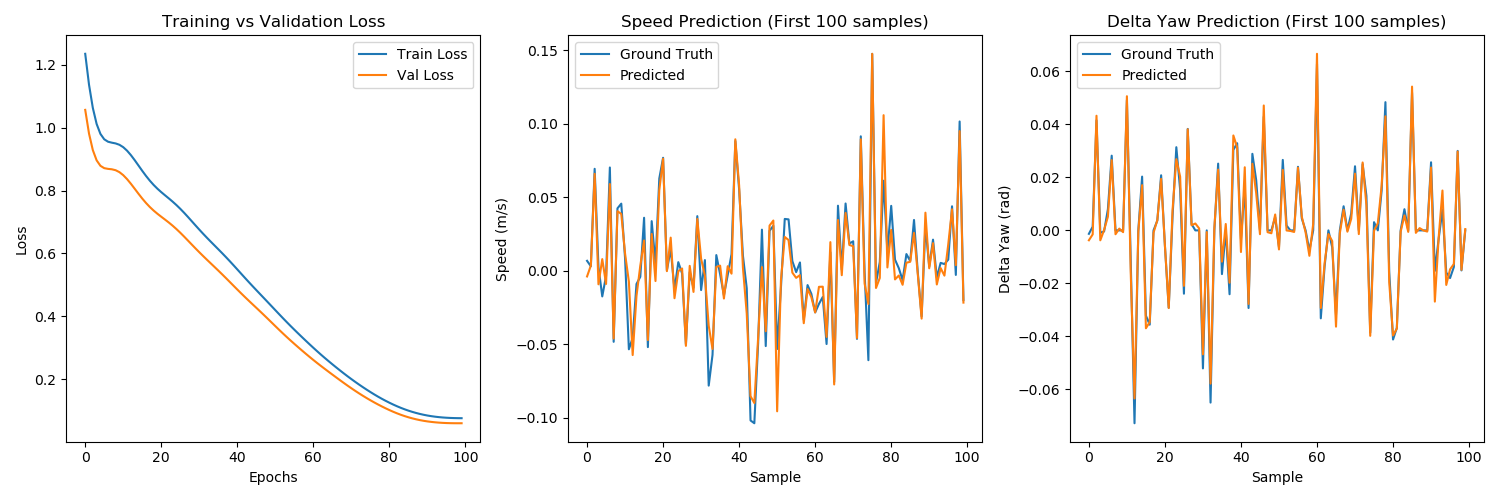
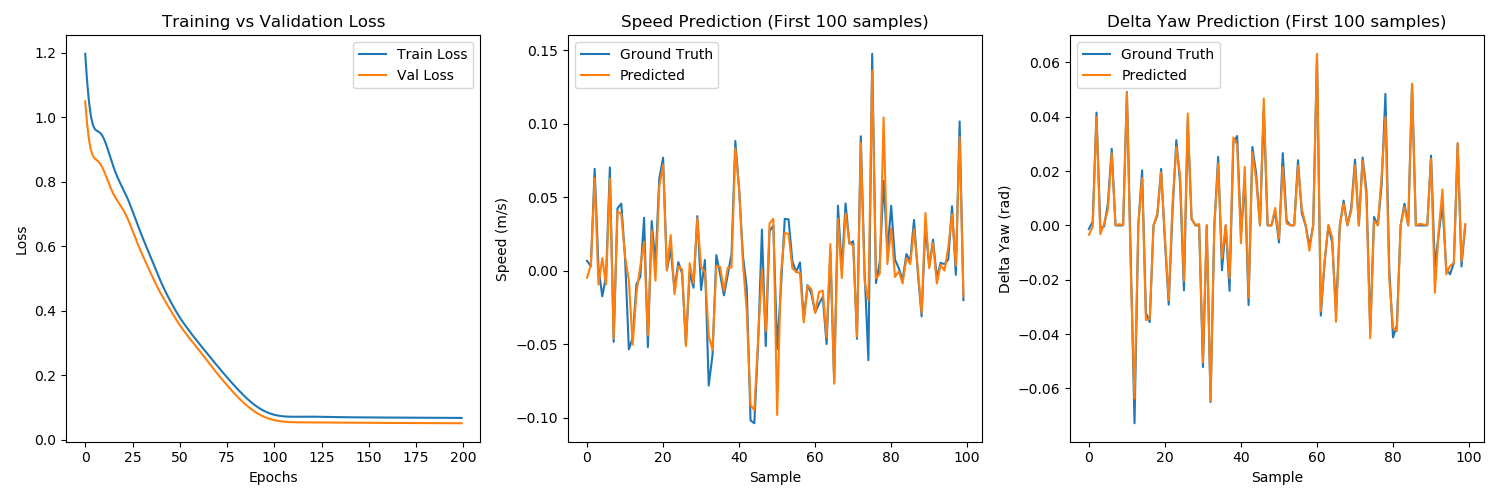
feat: Increase dynamics model training epochs, update performance metrics, and generate new training and CTE plots.

diff --git a/steerai_sysid/scripts/train_dynamics.py b/steerai_sysid/scripts/train_dynamics.py
@@ -116,7 +116,7 @@ def train_model():
     optimizer = optim.Adam(model.parameters(), lr=0.001)
     
     # 5. Training Loop
-    num_epochs = 100
+    num_epochs = 200
     train_losses = []
     val_losses = []
     

diff --git a/README.md b/README.md
@@ -104,8 +104,8 @@ The model is validated on a hold-out test set (20% of collected data).
 
 - **Metric**: Root Mean Squared Error (RMSE)
 - **Typical Performance**:
-  - Speed RMSE: 0.0130 m/s
-  - Delta Yaw RMSE: 0.0035 rad
+  - Speed RMSE: 0.0121 m/s
+  - Delta Yaw RMSE: 0.0032 rad
 
 **Training Results:**
 The training script generates plots showing the loss curve and prediction performance against ground truth.
